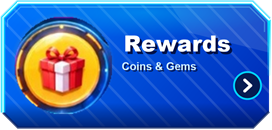
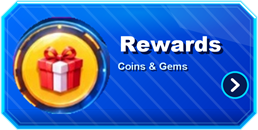
Recover bottom section of Rewards card with exact 258x130 dimensions and 3D cyan borders

diff --git a/index.html b/index.html
@@ -1287,7 +1287,7 @@
                 className="scifi-card-3d relative w-full cursor-pointer select-none"
               >
                 <img 
-                  src="/assets/card_rewards_scifi.png?v=8" 
+                  src="/assets/card_rewards_scifi.png?v=9" 
                   alt="Rewards" 
                   className="w-full h-auto object-contain block pointer-events-none drop-shadow-[0_4px_10px_rgba(0,0,0,0.4)]" 
                 />
